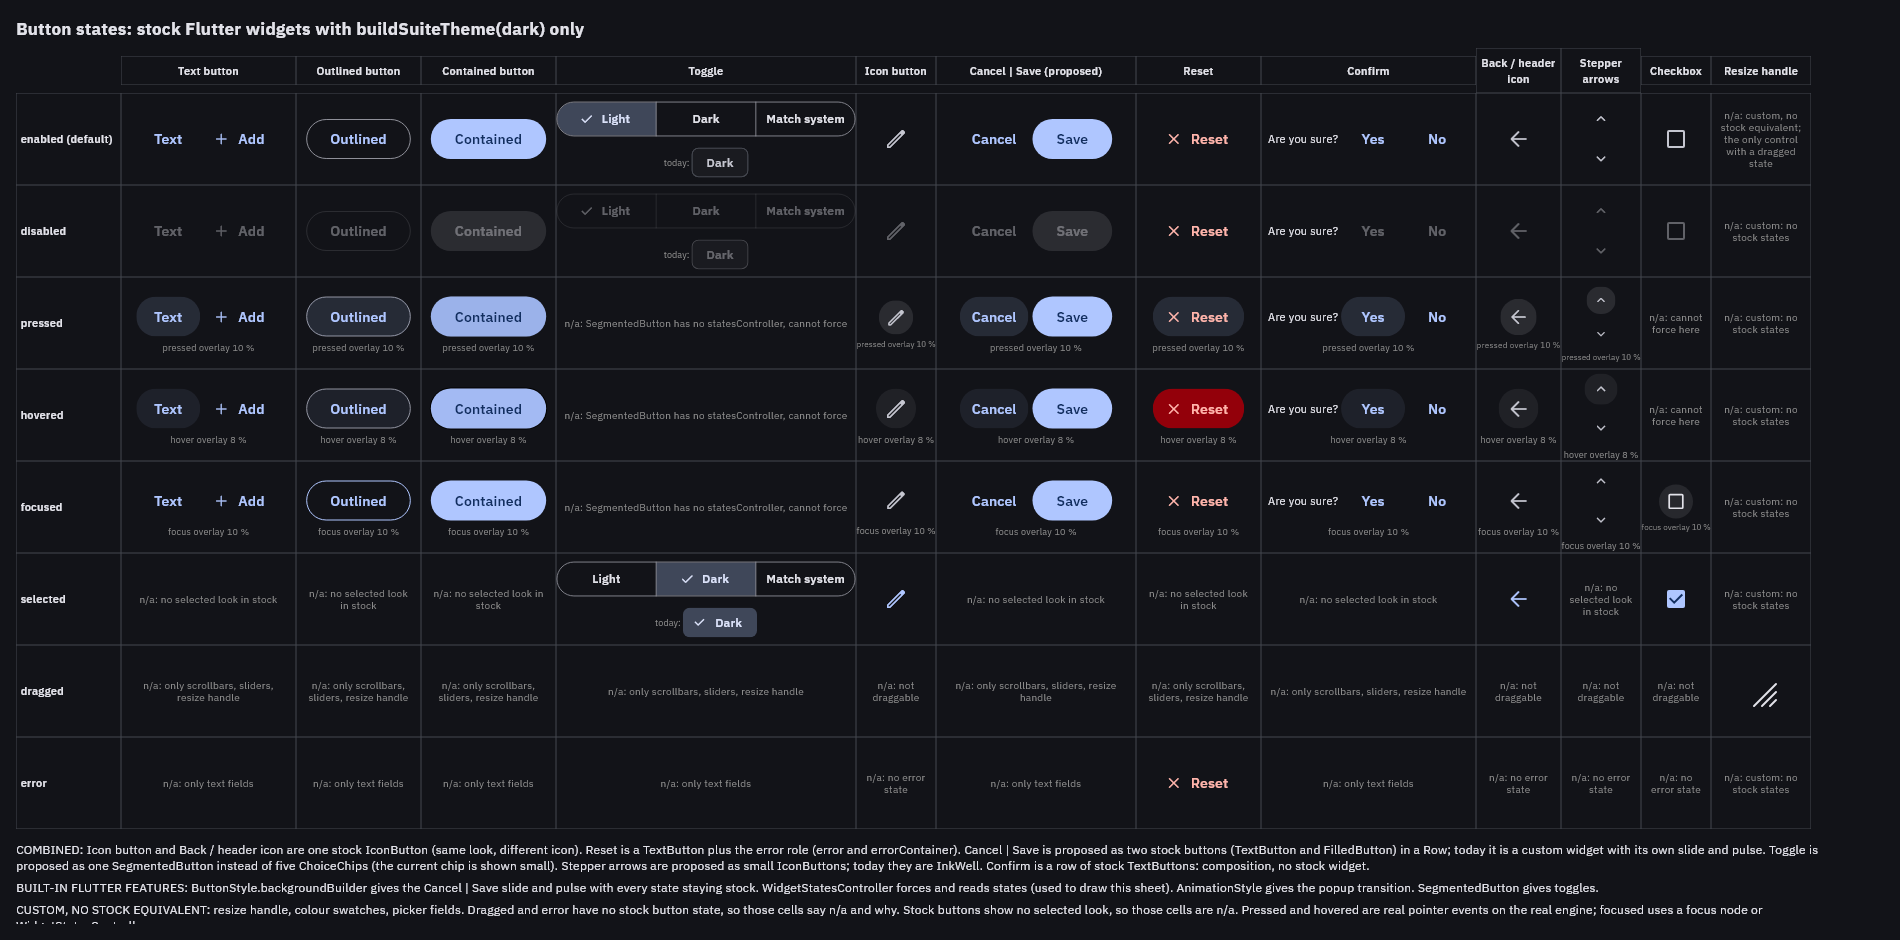
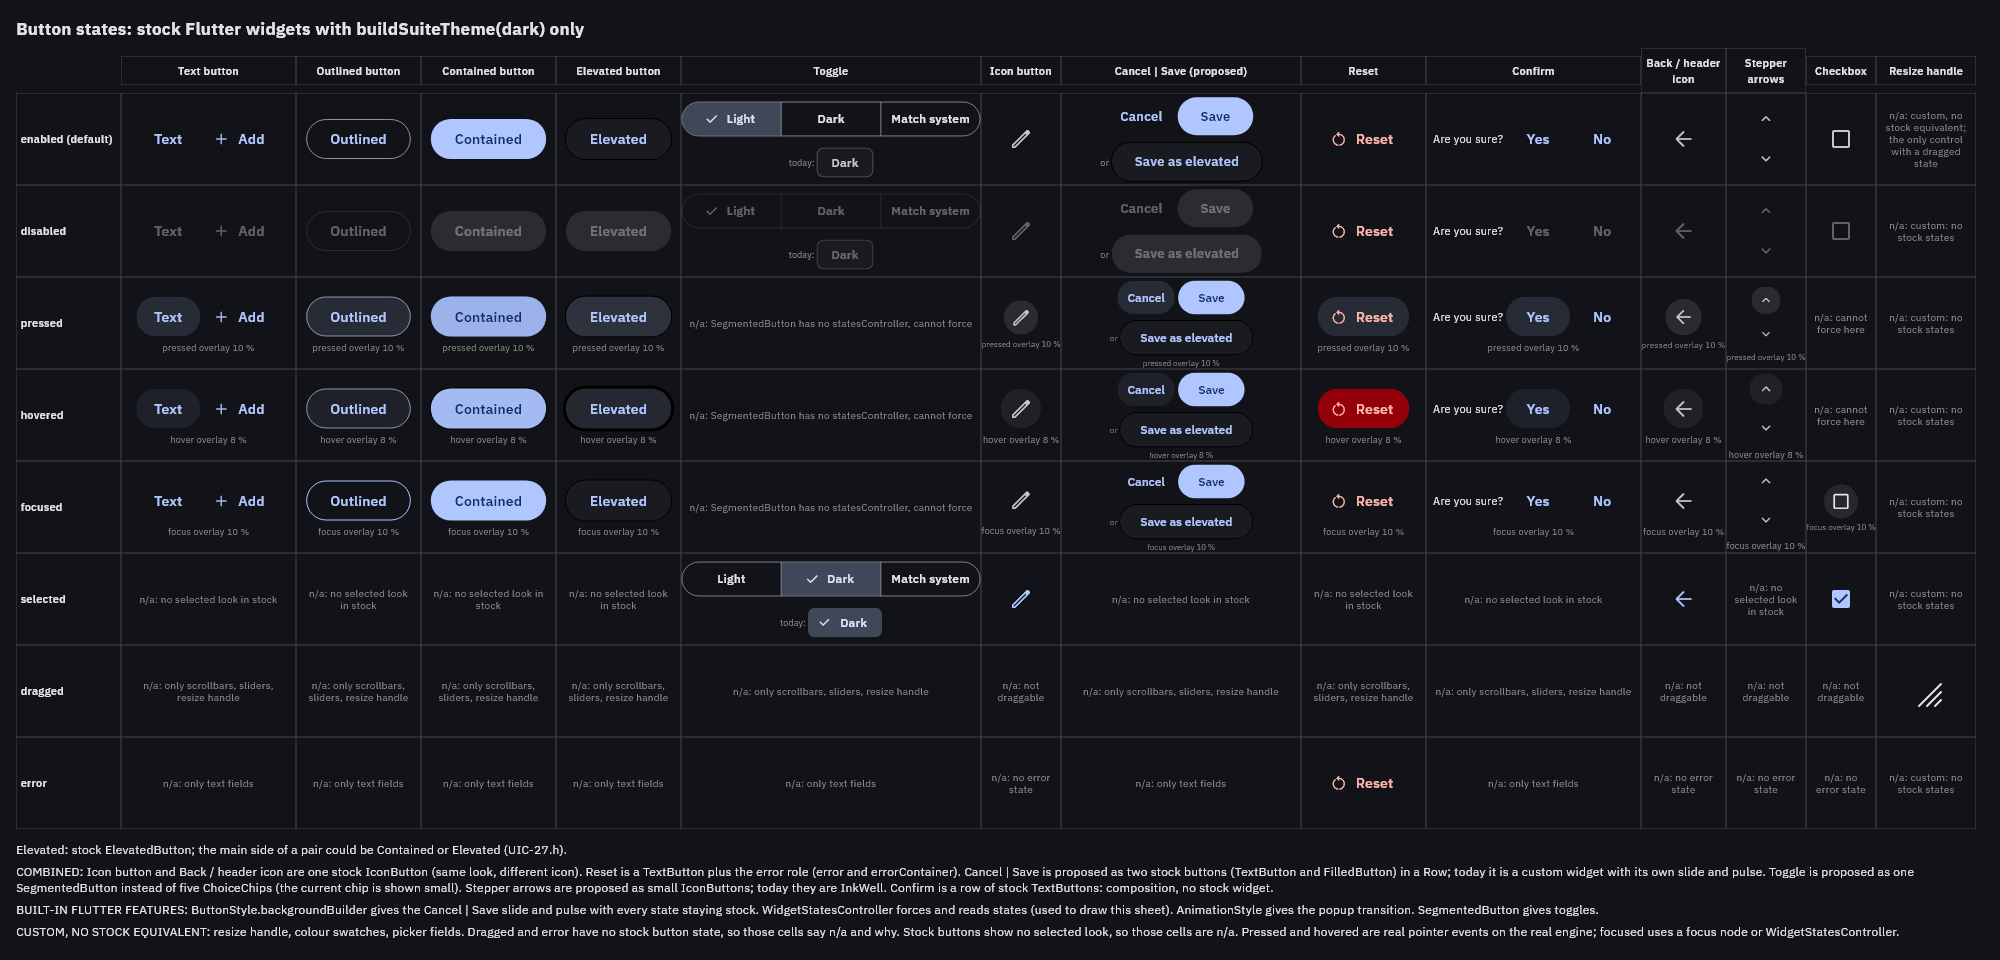
Button matrix with Elevated

diff --git a/tool/button_matrix/button_matrix_test.dart b/tool/button_matrix/button_matrix_test.dart
@@ -16,10 +16,12 @@ const _states = [
 ];
 const _cols = [
   ('Text button', 175.0), ('Outlined button', 125.0), ('Contained button', 135.0),
-  ('Toggle', 300.0), ('Icon button', 80.0), ('Cancel | Save (proposed)', 200.0),
+  ('Toggle', 300.0), ('Icon button', 80.0), ('Cancel | Save (proposed)', 240.0),
   ('Reset', 125.0), ('Confirm', 215.0), ('Back / header icon', 85.0),
   ('Stepper arrows', 80.0), ('Checkbox', 70.0), ('Resize handle', 100.0),
+  ('Elevated button', 125.0),
 ];
+const _order = [0, 1, 2, 12, 3, 4, 5, 6, 7, 8, 9, 10, 11];
 const _labelW = 105.0;
 const _rowH = 92.0;
 
@@ -134,6 +136,10 @@ Widget _cell0(BuildContext context, int col, int r) {
       return plainNa() ??
           w((c) => OutlinedButton(
               statesController: c, onPressed: tap(), child: const Text('Outlined')));
+    case 12:
+      return plainNa() ??
+          w((c) => ElevatedButton(
+              statesController: c, onPressed: tap(), child: const Text('Elevated')));
     case 2:
       return plainNa() ??
           w((c) => FilledButton(
@@ -178,10 +184,16 @@ Widget _cell0(BuildContext context, int col, int r) {
           icon: Icon(col == 4 ? SuiteIcons.edit : SuiteIcons.arrowBack)));
     case 5:
       return plainNa() ??
-          w((c) => Row(mainAxisSize: MainAxisSize.min, children: [
-                TextButton(statesController: c, onPressed: tap(), child: const Text('Cancel')),
-                const SizedBox(width: 4),
-                FilledButton(onPressed: tap(), child: const Text('Save')),
+          w((c) => Column(mainAxisSize: MainAxisSize.min, children: [
+                Row(mainAxisSize: MainAxisSize.min, children: [
+                  TextButton(statesController: c, onPressed: tap(), child: const Text("Cancel")),
+                  const SizedBox(width: 4),
+                  FilledButton(onPressed: tap(), child: const Text("Save")),
+                ]),
+                Row(mainAxisSize: MainAxisSize.min, children: [
+                  const Text("or ", style: TextStyle(fontSize: 10, color: Color(0xFF8A8A8A))),
+                  ElevatedButton(onPressed: tap(), child: const Text("Save as elevated")),
+                ]),
               ]));
     case 6:
       if (r == 5) return _na(_noSel);
@@ -196,7 +208,7 @@ Widget _cell0(BuildContext context, int col, int r) {
           statesController: c,
           style: style,
           onPressed: tap(),
-          icon: const Icon(SuiteIcons.close, size: 18),
+          icon: const Icon(SuiteIcons.restartAlt, size: 18),
           label: const Text('Reset')));
     case 7:
       return plainNa() ??
@@ -284,6 +296,7 @@ class _Grip extends CustomPainter {
 }
 
 const _notes = [
+  'Elevated: stock ElevatedButton; the main side of a pair could be Contained or Elevated (UIC-27.h).',
   'COMBINED: Icon button and Back / header icon are one stock IconButton (same look, different icon). '
       'Reset is a TextButton plus the error role (error and errorContainer). '
       'Cancel | Save is proposed as two stock buttons (TextButton and FilledButton) in a Row; today it is a custom widget with its own slide and pulse. '
@@ -305,7 +318,7 @@ void main() {
   });
 
   testWidgets('button states matrix', (tester) async {
-    tester.view.physicalSize = const Size(1900, 940);
+    tester.view.physicalSize = const Size(2000, 960);
     tester.view.devicePixelRatio = 1;
     addTearDown(tester.view.reset);
     FocusManager.instance.highlightStrategy = FocusHighlightStrategy.alwaysTraditional;
@@ -332,7 +345,7 @@ void main() {
                   const SizedBox(height: 8),
                   Row(children: [
                     const SizedBox(width: _labelW),
-                    for (final c in _cols)
+                    for (final c in _order.map((i) => _cols[i]))
                       Container(
                         width: c.$2,
                         padding: const EdgeInsets.symmetric(vertical: 6, horizontal: 2),
@@ -350,7 +363,7 @@ void main() {
                         decoration: BoxDecoration(border: Border.all(color: line, width: .5)),
                         child: Text(_states[r], style: small),
                       ),
-                      for (var c = 0; c < _cols.length; c++)
+                      for (final c in _order)
                         Container(
                           width: _cols[c].$2,
                           height: _rowH,
@@ -363,7 +376,7 @@ void main() {
                   const SizedBox(height: 12),
                   for (final n in _notes)
                     SizedBox(
-                      width: 1850,
+                      width: 1950,
                       child: Padding(
                         padding: const EdgeInsets.only(bottom: 6),
                         child: Text(n, style: const TextStyle(fontSize: 12, height: 1.35)),
@@ -377,7 +390,7 @@ void main() {
       ),
     ));
     await tester.pump();
-    for (final c in [0, 1, 2, 4, 5, 6, 7, 8, 9]) {
+    for (final c in [0, 1, 2, 12, 4, 5, 6, 7, 8, 9]) {
       for (final r in [2, 3]) {
         final target = find
             .descendant(
